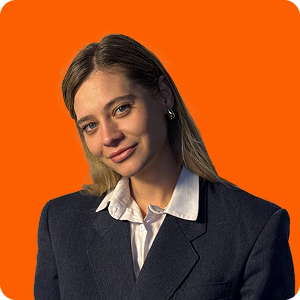
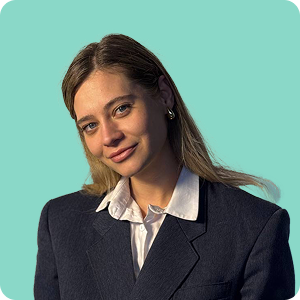
some fixs

diff --git a/src/pages/main/Main.jsx b/src/pages/main/Main.jsx
@@ -88,7 +88,7 @@ function Main() {
                   <a href="#">СТАТЬЯ: ТОП 1 ПРОФЕССИЯ 2025</a>
                   <h1>Профессия, <br/>которая приносит<br/>от 200 000 ₽ в месяц!</h1>
                   <p>Без опыта? Не проблема! Мы обучим тебя за 5 дней и дадим готовых клиентов – выход на доход от 200 000 ₽ уже в первый месяц.</p>
-                  <img src='./images/photos/mobileAlice.png' className="mobileAlice"/>
+                  <img src='./images/photos/alice.png' className="mobileAlice"/>
                   <button onClick={scrollToForm}>
                       <div className="brick">
                           <span>ОСТАВИТЬ ЗАЯВКУ</span>
@@ -102,9 +102,6 @@ function Main() {
                       </div>
                   </button>
                   <div className="sqs">
-                    <div className="sq" onClick={scrollToSuccess}>
-                      <span>Истории<br/>успеха</span>
-                    </div>
                     <div className="sq" onClick={scrollToEducation}>
                       <span>Наше<br/>обучение</span>
                       <img className='education' src="./images/photos/educationIcons.svg" alt="education" />
@@ -154,11 +151,11 @@ function Main() {
                   <div className="info">
                     <div className="textblock">
                       <h6>Как проходит обучение новичков?</h6>
-                      <span>📚 5 дней в учебном центре</span>
+                      <span>5 дней в учебном центре</span>
                       <p>Мы разбираем всю нужную теорию, учим, как работать с клиентами и делать сделки.</p>
-                      <span>🎓 Стажировка с наставником</span>
+                      <span>Стажировка с наставником</span>
                       <p>Вас сопровождает опытный агент, первые 4 сделки вы заключаете вместе бок о бок.</p>
-                      <span>🚀 Дальше — самостоятельная работа</span>
+                      <span>Дальше — самостоятельная работа</span>
                       <p>После стажировки вы уже самостоятельный агент</p>
                     </div>
                     <a href="#">Узнать больше</a>
@@ -172,30 +169,12 @@ function Main() {
                   </div>
                 </div>
               </section>
-              <section className='double_block' ref={sucRef}>
-                <div className="left">
-                  <h2>Меняем судьбы!</h2>
-                  <h3>Послушайте реальные истории наших агентов</h3>
-                  <iframe width="100%" height="310px" style={{borderRadius: "16px"}} src="https://www.youtube.com/embed/1ITRSI1O1UY?si=nnH_VrJHyISIB_Z2" title="YouTube video player" frameBorder="0" allow="accelerometer; autoplay; clipboard-write; encrypted-media; gyroscope; picture-in-picture; web-share" referrerPolicy="strict-origin-when-cross-origin" allowFullScreen></iframe>
-                  <button onClick={scrollToForm}>СТАТЬ АГЕНТОМ</button>
-                </div>
-                <div className="right">
-                  <h2>Наш HR отдел<br/>ждет именно Тебя!</h2>
-                  <div className="circles">
-                    <img src="./images/photos/hr1.png" alt="hr" />
-                    <img src="./images/photos/hr2.png" alt="hr" />
-                    <img src="./images/photos/hr3.png" alt="hr" />
-                    <img src="./images/photos/hr4.png" alt="hr" />
-                    <img src="./images/photos/hr5.png" alt="hr" />
-                  </div>
-                </div>
-              </section>
               <section className='about_agent'>
                 <div className="left">
                   <h2>Чем занимается<br/>агент по недвижимости?</h2>
-                  <p>🏡 Мы работаем с недвижимостью в Санкт-Петербурге и Ленинградской области: новостройки, вторичка, загород.
+                  <p>Мы работаем с недвижимостью в Санкт-Петербурге и Ленинградской области: новостройки, вторичка, загород.
                   Помогаем людям покупать и продавать квартиры под ключ.<br/><br/>
-      🚀 <span>Не разбираешься в этом?</span> Не проблема! Мы обучаем новичков с нуля бесплатно в нашем учебном центре. Уже в первые недели ты получишь все необходимые знания и начнешь зарабатывать! </p>
+      <span>Не разбираешься в этом?</span> Не проблема! Мы обучаем новичков с нуля бесплатно в нашем учебном центре. Уже в первые недели ты получишь все необходимые знания и начнешь зарабатывать! </p>
                   <button onClick={scrollToForm}>
                       <div className="brick">
                           <span>СТАТЬ АГЕНТОМ</span>

diff --git a/src/pages/main/Main.scss b/src/pages/main/Main.scss
@@ -17,7 +17,7 @@
             position: absolute;
             bottom: 0;
             right: 0;
-            height: 95%;
+            height: 85%;
         }
         & > img.mobileAlice {
             display: none;
@@ -42,6 +42,7 @@
             font-size: 48px;
             color: #ffffff;
             font-weight: 900;
+            z-index: 10;
         }
         & > p {
             font-size: 24px;
@@ -49,6 +50,7 @@
             font-weight: 400;
             max-width: 580px;
             margin: 0;
+            z-index: 10;
         }
         & > button {
             display: flex;
@@ -385,6 +387,7 @@
         flex-direction: column;
         gap: 24px;
         padding: 32px;
+        align-items: center;
         & > h2 {
             font-size: 52px;
             font-weight: 700;
@@ -399,45 +402,21 @@
         }
         & > button {
             display: flex;
+            width: max-content;
             justify-content: center;
             align-items: center;
             color: #051923;
-            font-size: 24px;
+            font-size: 20px;
             background-color: #EFF0F2;
-            border-radius: 24px;
+            border-radius: 16px;
             border: none;
             outline: none;
             font-weight: 700;
-            padding: 16px 0px;
+            padding: 16px 32px;
             cursor: pointer;
             transition: all 0.2s;
             &:hover {
                 background-color: #e0e0e0;
-            }
-        }
-    }
-    & > .right {
-        flex: 1;
-        background-color: #8AD8C8;
-        border-radius: 24px;
-        display: flex;
-        flex-direction: column;
-        justify-content: space-between;
-        padding: 32px;
-        gap: 24px;
-        & > h2 {
-            color: #ffffff;
-            font-size: 52px;
-            font-weight: 700;
-            text-align: center;
-        }
-        & > .circles {
-            display: flex;
-            flex-wrap: wrap;
-            gap: 16px;
-            justify-content: center;
-            & > img {
-                width: 30%;
             }
         }
     }
@@ -654,6 +633,7 @@
             font-size: 15px;
             font-weight: 400;
             margin-left: 16px;
+            z-index: 10;
         }
         & > input {
             height: 45px;
@@ -663,12 +643,14 @@
             padding: 0px 30px;
             box-sizing: border-box;
             width: 390px;
+            z-index: 10;
             &:focus {
                 outline: none;
             }
         }
         & > button {
             background-color: #FF8135;
+            z-index: 10;
             display: flex;
             justify-content: center;
             align-items: center;

diff --git a/src/components/Header.jsx b/src/components/Header.jsx
@@ -31,7 +31,9 @@ export default function Header(props) {
                     <a href="https://drive.google.com/file/d/1aaVsDwKo6YBW04UfuJ3tln_Ifq5shQeD/view" target='_blank'>Программа обучения</a>
                     <Link to='/education'>Обучение</Link>
                     <a href="https://trend-people.ru">О компании</a>
-                    <a href="https://t.me/trend_career">Телеграм канал</a>
+                    <a href="https://t.me/trend_career">
+                        <svg xmlns="http://www.w3.org/2000/svg" width="24" height="24" viewBox="0 0 24 24"><g fill="none"><g clip-path="url(#akarIconsTelegramFill0)"><path fill="currentColor" fill-rule="evenodd" d="M24 12c0 6.627-5.373 12-12 12S0 18.627 0 12S5.373 0 12 0s12 5.373 12 12M12.43 8.859c-1.167.485-3.5 1.49-6.998 3.014c-.568.226-.866.447-.893.663c-.046.366.412.51 1.034.705c.085.027.173.054.263.084c.613.199 1.437.432 1.865.441c.389.008.823-.152 1.302-.48c3.268-2.207 4.955-3.322 5.061-3.346c.075-.017.179-.039.249.024c.07.062.063.18.056.212c-.046.193-1.84 1.862-2.77 2.726c-.29.269-.495.46-.537.504c-.094.097-.19.19-.282.279c-.57.548-.996.96.024 1.632c.49.323.882.59 1.273.856c.427.291.853.581 1.405.943c.14.092.274.187.405.28c.497.355.944.673 1.496.623c.32-.03.652-.331.82-1.23c.397-2.126 1.179-6.73 1.36-8.628a2.111 2.111 0 0 0-.02-.472a.506.506 0 0 0-.172-.325c-.143-.117-.365-.142-.465-.14c-.451.008-1.143.249-4.476 1.635" clip-rule="evenodd"/></g><defs><clipPath id="akarIconsTelegramFill0"><path fill="#fff" d="M0 0h24v24H0z"/></clipPath></defs></g></svg>
+                    </a>
                     <a href="">Контакты</a>
                     {/* <span onClick={scrollToFaq}>FAQ</span> */}
                 </div>
